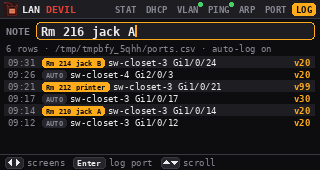
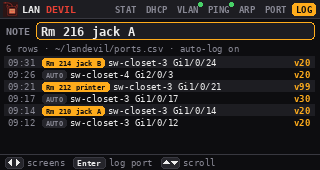
Prep for public: README cleanup, drop internal publish notes, fix preview log path

Changed region(s): [[0.1562, 0.2353, 0.8438, 0.3235], [0.4062, 0.1471, 0.4375, 0.2059]]

diff --git a/landevil.py b/landevil.py
@@ -1015,6 +1015,7 @@ def preview(out_dir):
     os.makedirs(out_dir, exist_ok=True)
     tmp = tempfile.mkdtemp()
     app = App(demo=demo_data(os.path.join(tmp, "ports.csv")))
+    app.log.display_path = lambda: "~/landevil/ports.csv"   # not the temp dir
     app.refresh()
     app.fields.update(PING="10.20.0.1", PORT="10.20.0.40")
     now = time.monotonic()

diff --git a/README.md b/README.md
@@ -1,16 +1,17 @@
 # LAN Devil -- CardputerZero build
 
+**[landevil.com](https://landevil.com)** -- try the live demo in your browser.
+
 The LAN Devil pocket network-ID tool as a CardputerZero APPLaunch app.
 Plug the Cardputer's Ethernet port into a switch port and the home screen
 shows link speed, your DHCP lease, and what you're plugged into -- switch
 name, port, VLAN, management IP -- from LLDP/CDP. Ping (live latency
 graph), ARP sweep (with MAC vendors) and a TCP port grid are one key away.
 
-Lineage: the Pi build (`~/Documents/ld`, Python + lldpd + e-paper) is the
-direct ancestor; the LLDP/CDP TLV parsing is ported from the S31 firmware
-(`landevil-s31/main/lldp_cdp.c`), extended with mgmt-address and 802.1
-port-VLAN TLVs. Here the keyboard and screen are the control plane, so the
-BLE / Wi-Fi AP control page isn't needed.
+LAN Devil started as a Raspberry Pi build (Python + lldpd + e-paper) and
+ESP32 firmware; the LLDP/CDP TLV parsing here is ported from the firmware
+and extended with mgmt-address, 802.1, 802.3 and LLDP-MED TLVs. On the
+CardputerZero the keyboard and screen are the whole interface.
 
 ![status](store/screenshots/status.png) ![dhcp](store/screenshots/dhcp.png)
 ![vlan](store/screenshots/vlan.png) ![log](store/screenshots/log.png)
@@ -36,14 +37,14 @@ The store can't assume lldpd is installed, so the app captures LLDP
 Switches announce every 30-60 s, so on a fresh plug-in you wait up to a
 minute (the status card shows a radar + 60 s bar while listening).
 
-If lldpd **is** installed (it is on your unit), the app also polls
+If lldpd **is** installed, the app also polls
 `lldpcli -f json show neighbors` every 5 s and shows that neighbor
 immediately, tagged `LLDP (lldpd)` / `cached`, until a fresh frame is seen
 on the wire. Both coexist fine: packet sockets get their own copy of each
 frame.
 
 Raw capture, the DHCP probe, VLAN watch/join and the raw ARP sweep need
-root. APPLaunch runs as the desktop user (`jstn` on this unit), so the
+root. APPLaunch runs as the desktop user, not root, so the
 launcher wrapper re-execs under passwordless `sudo` when the image allows
 it (stock images do). Without it: neighbors come from lldpd, the ARP sweep
 uses the kernel ARP table, and DHCP/VLAN say they need root.
@@ -58,40 +59,33 @@ uses the kernel ARP table, and DHCP/VLAN say they need root.
 | `vlan.py` | tagged-frame watcher (BPF + PACKET_AUXDATA), VLAN join/leave |
 | `portlog.py` | the CSV port log |
 | `ui.py` | palette, fonts, drawn icons/widgets |
-| `device.py` | framebuffer (finds `fb_st7789v`, never assumes fb0) and raw evdev keyboard -- no python3-evdev needed |
-| `assets/logo120.png`, `packaging/icon.png` | tinted from `branding/landevil-logo-concept-edited.jpeg` |
+| `device.py` | framebuffer (finds the ST7789 panel, never assumes fb0) and raw evdev keyboard -- no python3-evdev needed |
+| `assets/`, `packaging/icon.png` | logo and app icon |
 | `packaging/build_deb.py` | builds the `.deb` (uses dpkg-deb if present, otherwise writes it in pure Python) |
-| `deploy.sh` | build, scp, `apt install` on the device, restart APPLaunch |
+| `deploy.sh` | build, scp and `apt install` on a device over SSH |
 | `app-builder.json` | package + App Store listing metadata |
 | `tests/` | parser/DHCP/VLAN/log tests with synthetic frames and lldpd JSON |
 
-## Try it on your Cardputer (no store needed)
+## Install
+
+From the CardputerZero app store once it's listed. Until then, build and
+install the package over SSH from any Linux/macOS machine:
 
 ```bash
-./deploy.sh pi@<cardputer-ip>
+./deploy.sh <user>@<cardputer-host>      # builds the .deb, copies it, apt installs it
 ```
 
-Or by hand on the device: copy the folder over and run
-`sudo python3 landevil.py` (needs `python3-pil python3-numpy fonts-dejavu-core`).
+It then shows up in the launcher. To run it without installing, copy the
+folder to the device and run `sudo python3 landevil.py` (needs
+`python3-pil python3-numpy fonts-dejavu-core`).
 
 ## Develop off-device
 
 ```bash
-python3 landevil.py --preview /tmp/ld      # renders splash + 4 store screenshots
+python3 landevil.py --preview /tmp/ld      # renders the splash + all 7 screens with demo data
 cd tests && python3 -m unittest test_netdiag test_v02
+python3 packaging/build_deb.py --maintainer "Name <email>"   # -> build/landevil_<ver>_all.deb
 ```
-
-## Package / publish
-
-```bash
-python3 packaging/build_deb.py --maintainer "Your Name <you@example.com>"
-# -> build/landevil_0.2.0_all.deb   (Architecture: all -- pure Python)
-```
-
-Publishing goes through `czdev publish` (CardputerZero AppBuilder) or the
-web portal at dev.cardputer.cc. See `PUBLISH.md` for what's still to fill
-in. First release of a new app needs a short video of it running on a real
-device posted on the publish PR.
 
 ## Responsible use
 
@@ -99,3 +93,8 @@ DHCP probe, VLAN join, ARP sweep and port scan send traffic and are
 labelled as such on screen. Get an OK before running them on a network you
 don't administer. STAT and VLAN watch are passive (VLAN watch puts the port
 in promiscuous mode while it runs).
+
+## License
+
+MIT, see [LICENSE](LICENSE). LAN Devil is an independent project, not
+affiliated with M5Stack.
